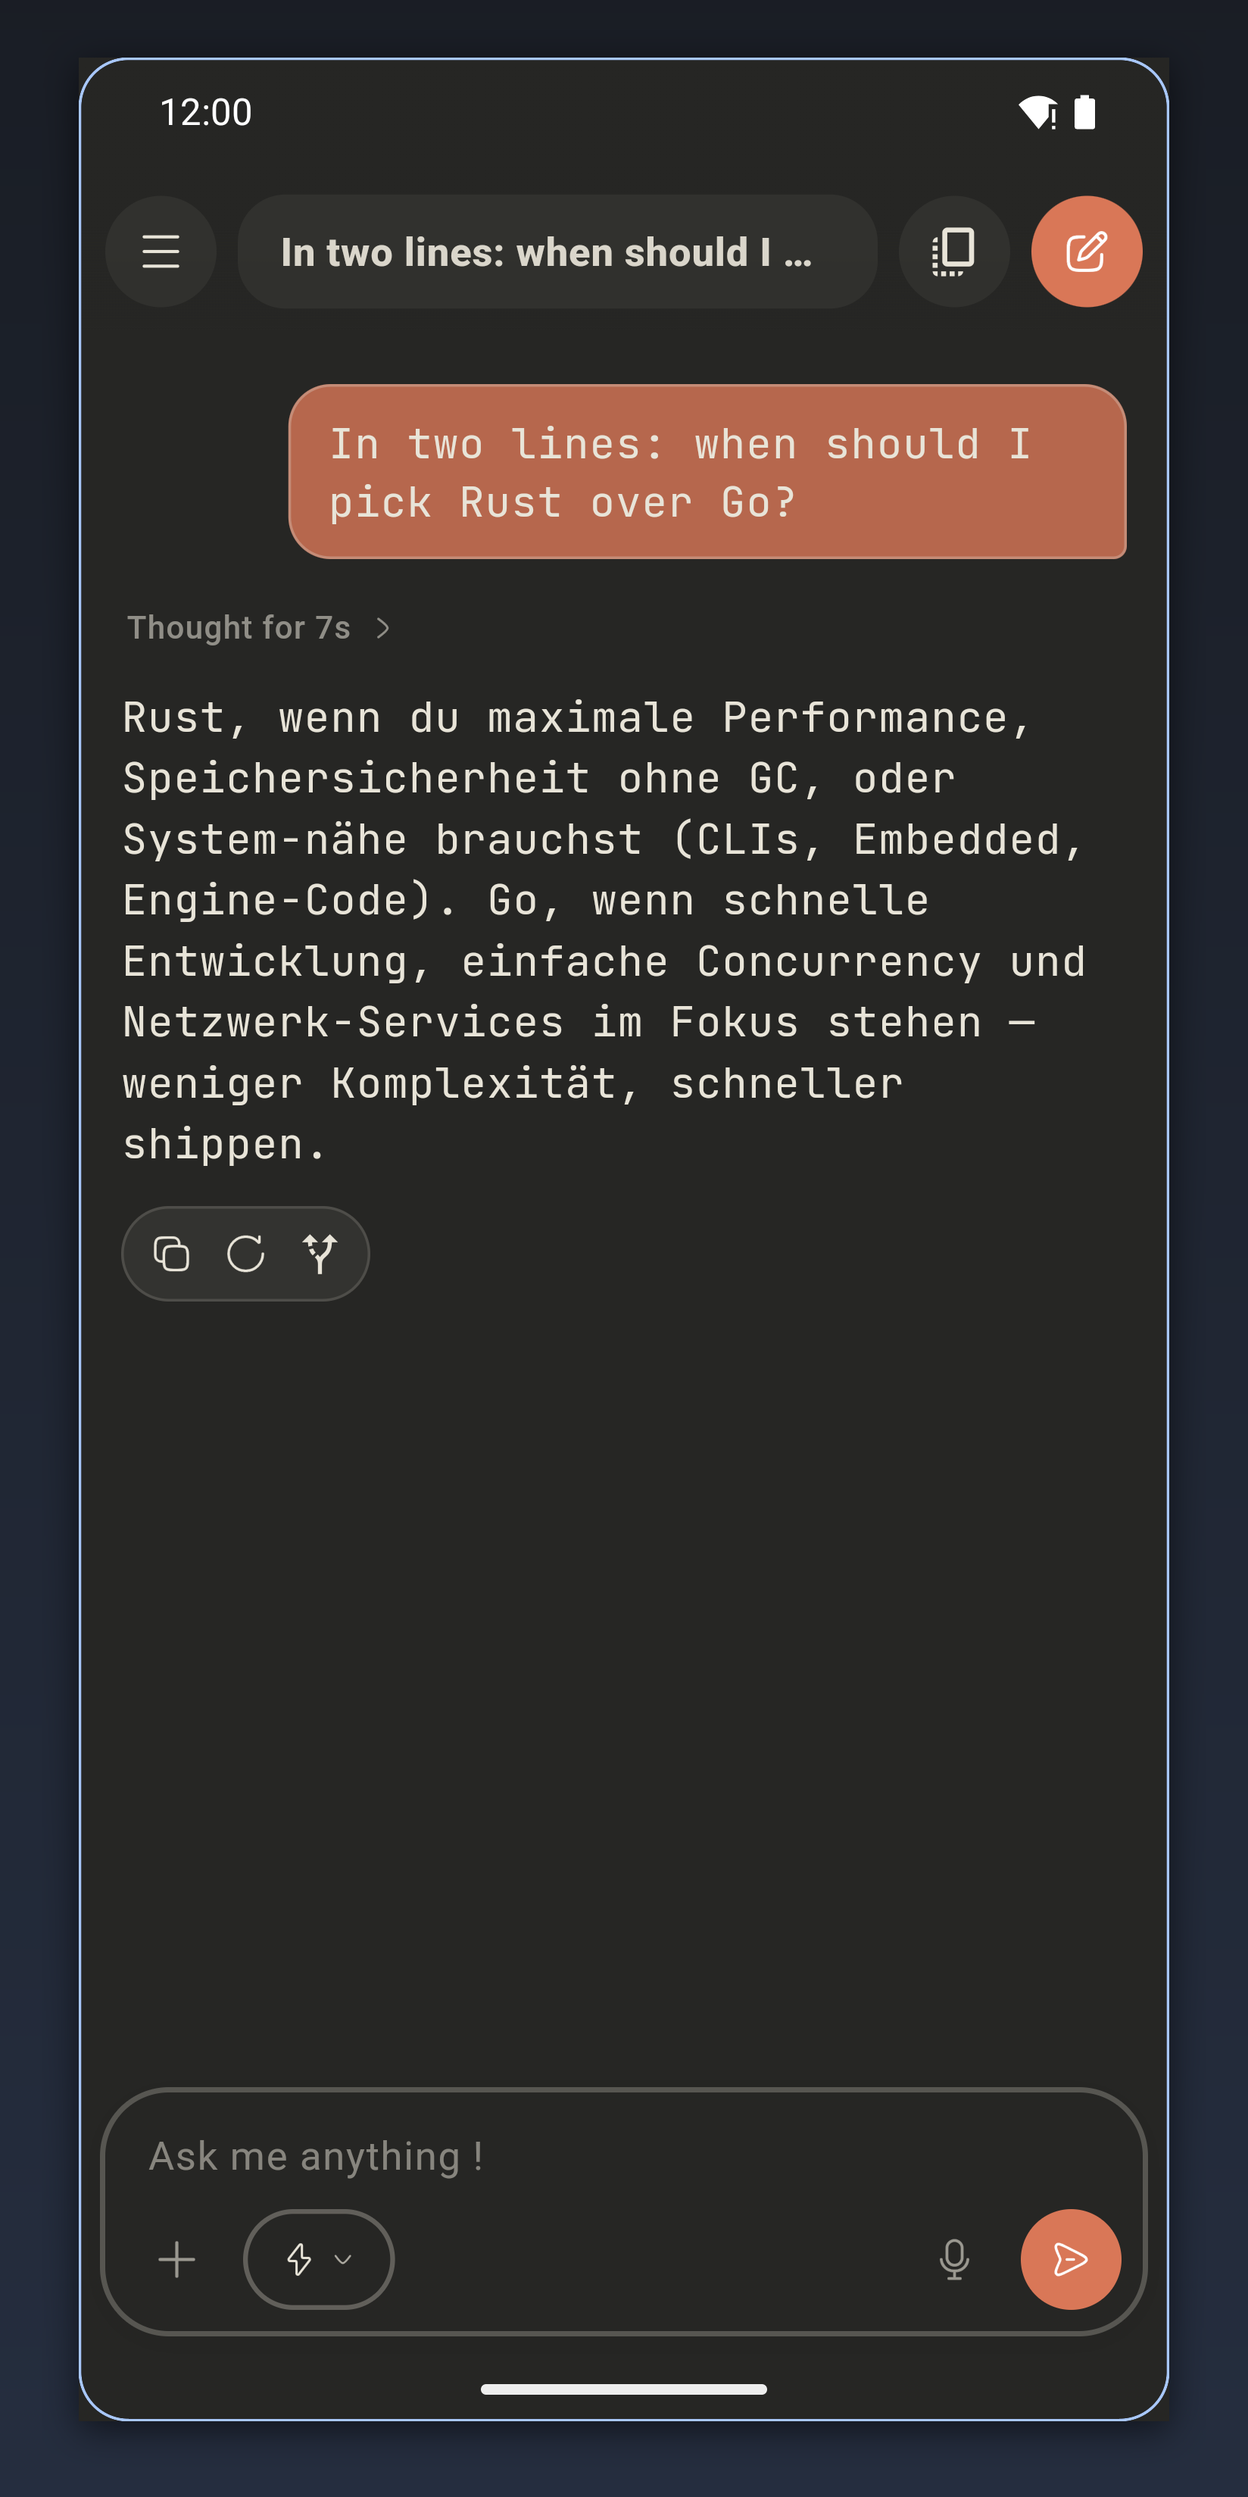
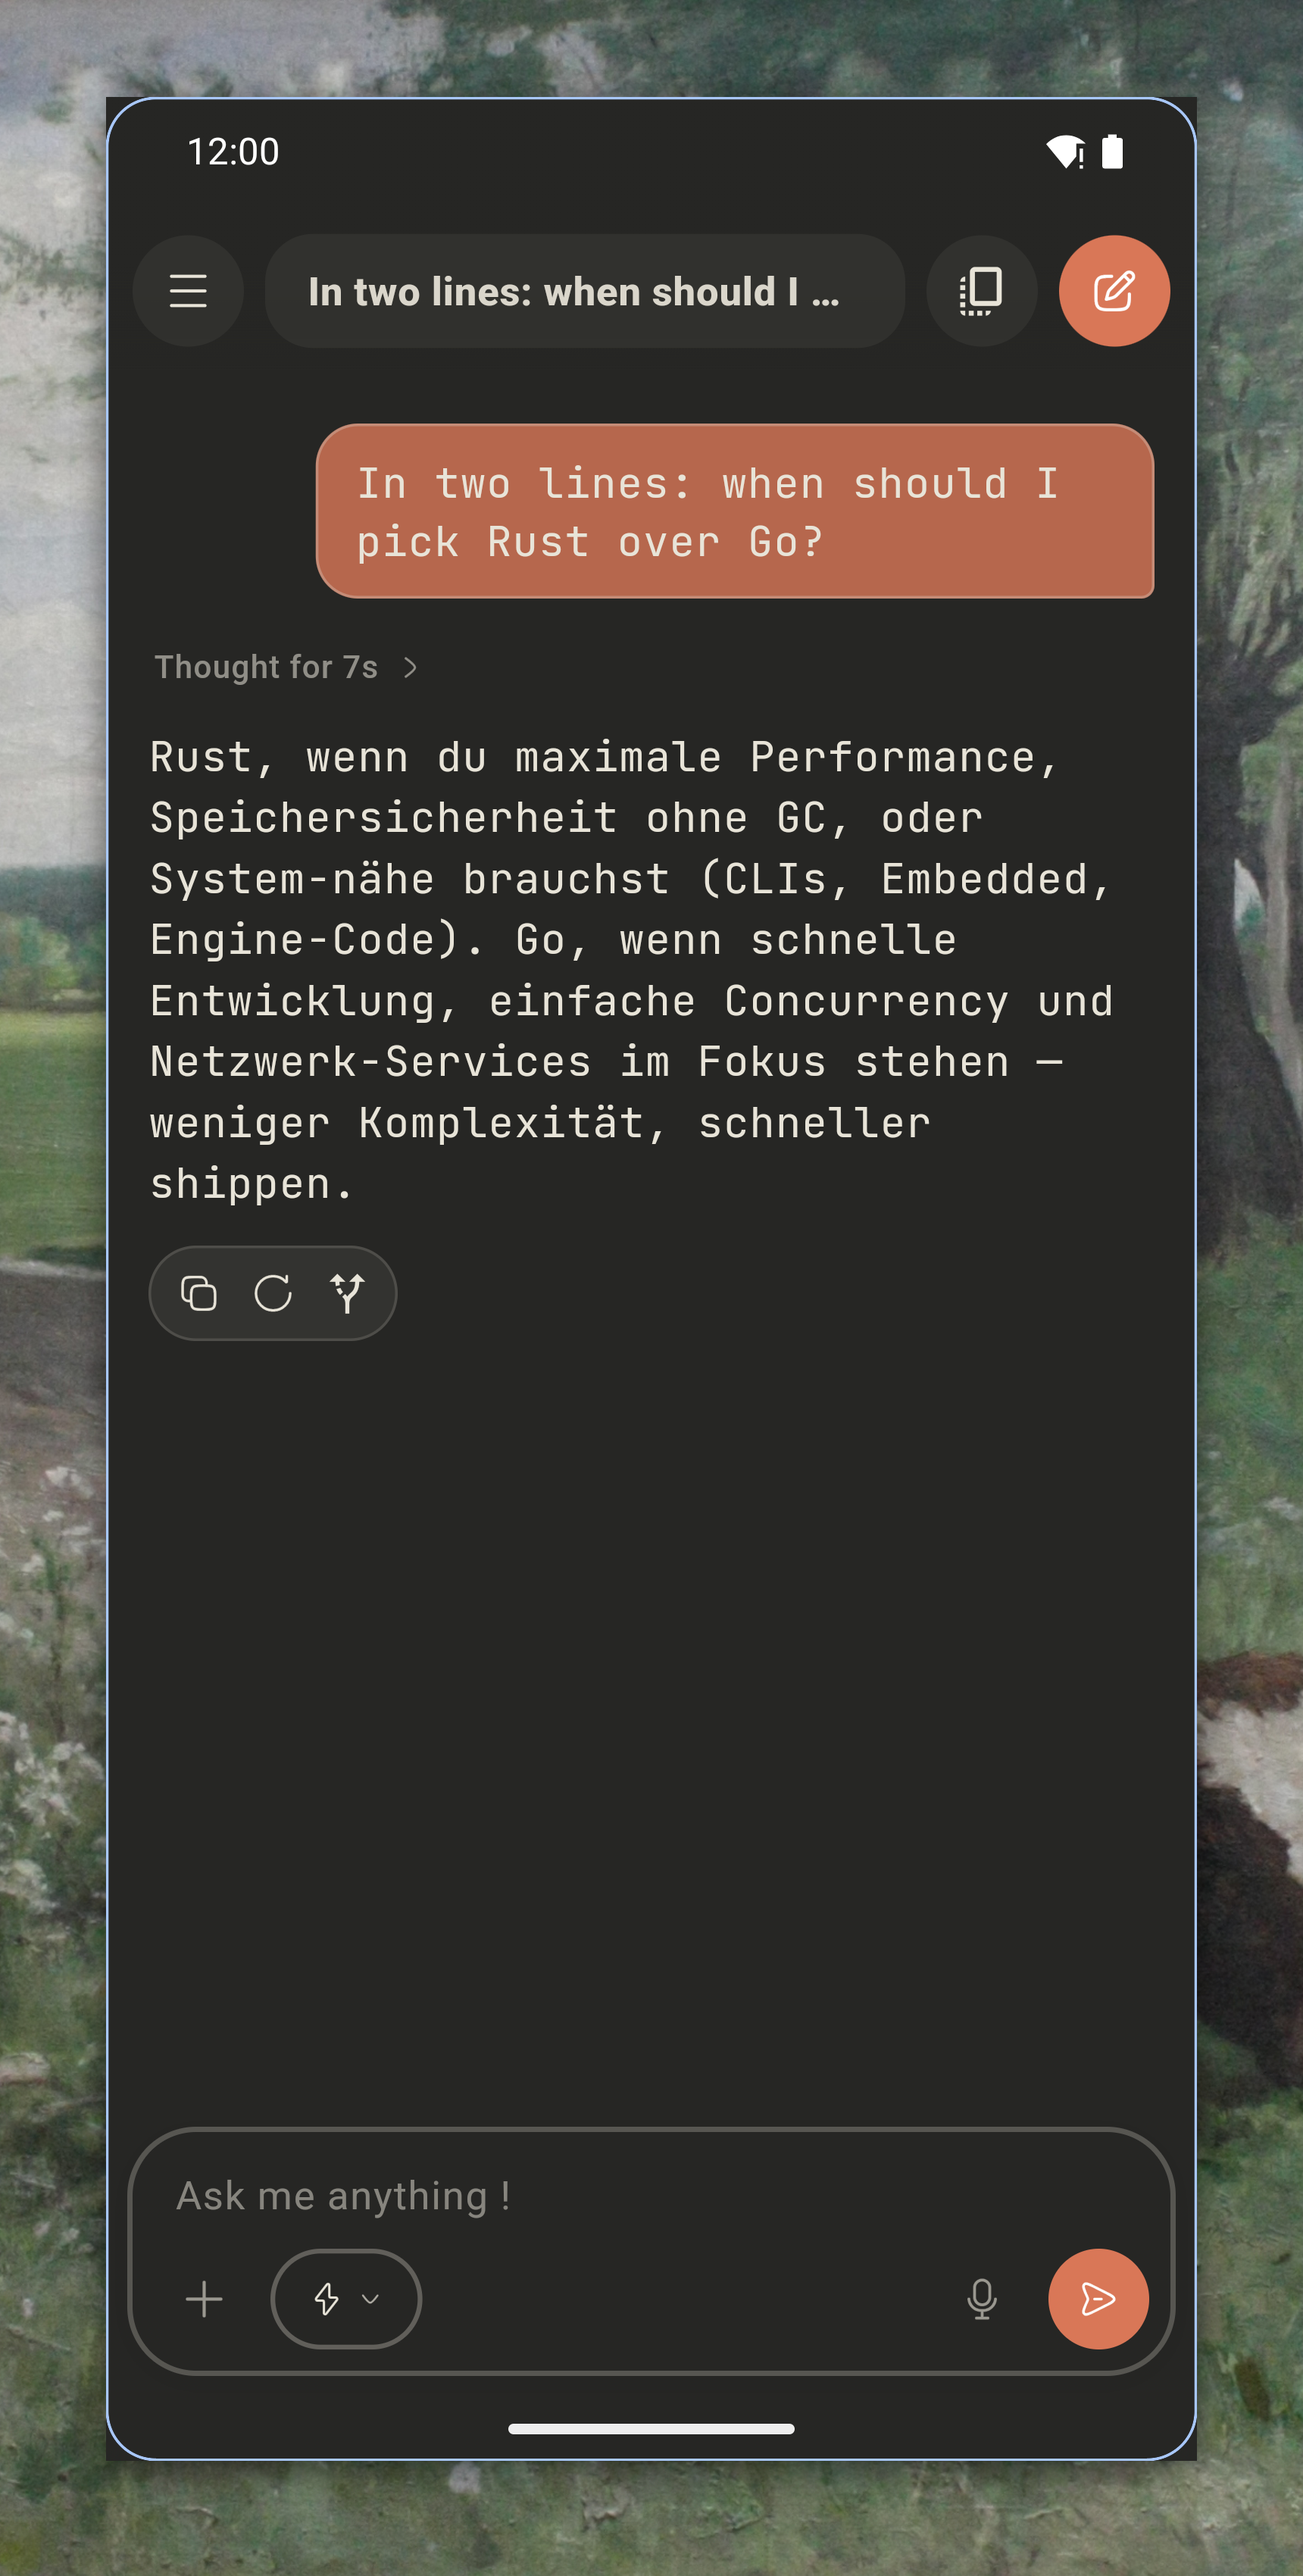
docs(screenshots): the gallery and the store images sit on the painting
The desktop gallery was flat, tiny and carried live chat content behind
the settings dialogs. It is recaptured at 3840x2160 with the interface
drawn at scale 2, on the same painting the ad shots use, and every chat
in frame is a fresh demo question.

The phone listing images move to the same painting, so the README, the
Play listing and the F-Droid page tell one story.

diff --git a/README.md b/README.md
@@ -30,8 +30,6 @@
 
 ## Screenshots
 
-Captured from the real Linux build with `scripts/desktop_screenshots.sh`.
-
 <p align="center">
   <img src="assets/screenshots/screenshot_home_ui.webp" width="90%" alt="Clean chat interface">
 </p>
@@ -49,9 +47,6 @@ Captured from the real Linux build with `scripts/desktop_screenshots.sh`.
 </p>
 
 ### Mobile
-
-Captured on a real device with `scripts/device_screenshots.sh`, then framed by
-`scripts/frame_screenshots.sh`.
 
 <p align="center">
   <img src="fastlane/metadata/android/en-US/images/phoneScreenshots/01_chat.png" width="18%" alt="Chat with formatted output">
